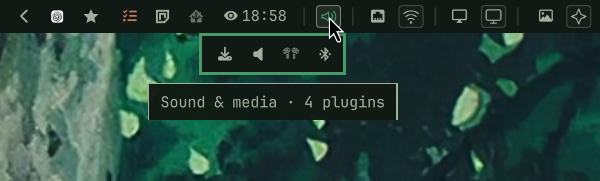
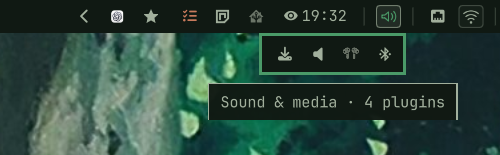
Frame the hovered group preview at its desktop size

diff --git a/README.md b/README.md
@@ -2,7 +2,7 @@
 
 Organize your Omarchy bar into independent icon groups. Drawers open below the bar, so your other icons stay in place. Drag widgets into groups, back onto the bar, or directly between groups.
 
-![Omarchy menu bar with Sound & media hovered, revealing its four widgets below the bar](preview.png)
+<img src="preview.png" alt="Omarchy menu bar with Sound &amp; media hovered, revealing its four widgets below the bar" width="400" height="124">
 
 ## Highlights
 
